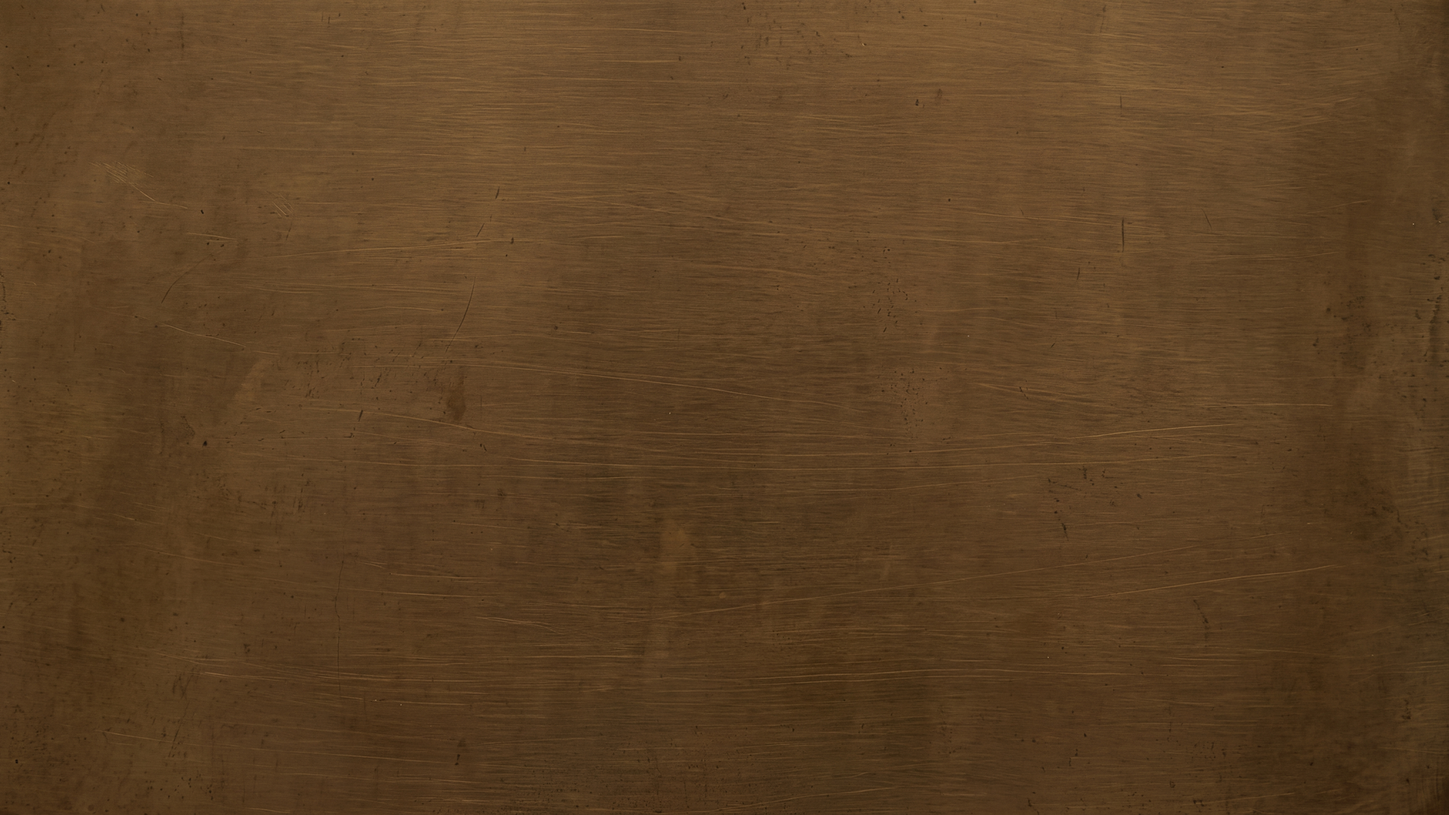
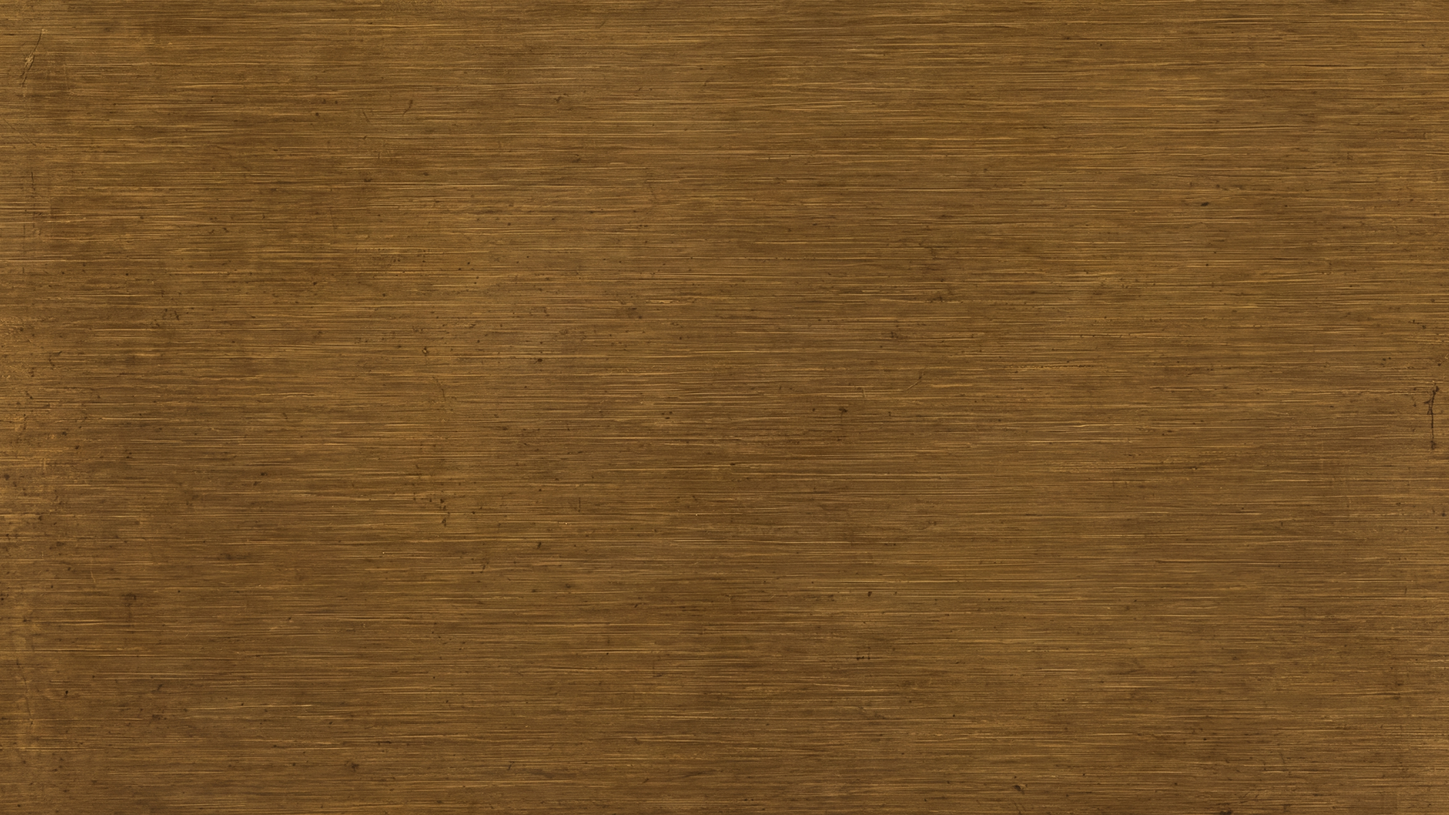
The brass is the 10:07b Gemini sheet, his pick off six live candidates
Architect 2026-10-22 ~10:15: "the one most realistic to what a music instrument would
look like … the other ones are darker, but not as realistic, maybe not as cheery" — the
brass drawn with Gemini from a brass tile (his second round, after the first's "too old
and dingy" output), shown live on the tablet through the tiles/ override folder on the
picked walnut. The master dropped in verbatim as Metal.jpg, its two covers rendered by
render_covers.py; Wood and Case re-rendered byte-identical. The provenance in
assets/tiles/README.md and CLAUDE.md.

diff --git a/CLAUDE.md b/CLAUDE.md
@@ -52,7 +52,7 @@ THE CODEX ROUTINE (all tmp/ paths gitignored): every round is a FRESH codex sess
 
 ## Standing Rules
 
-- THE CHROME IS THE FORTEPIANO (architect 2026-10-21, the design settled on mocks that day, the build the same evening; a Salzburg Walter: "we follow the Salzburg instrument as much as we can"; the frame of record tmp/theme_next/out/cover_walnut1.png, the ONLY authority for the look; the first wood chrome of 2026-10-20, 891b8e16..4d4478d4, rolled back whole at 1cb8aa07 for speed): THREE MATERIALS over Cool Edit's geometry, which does not move — WALNUT (the caption and menu row one slab with no gradient, the band's panes, the tab strip's ground, the dock bar, row 8, the border, the frame's own rows; the band's void the walnut under a .72 luma ratio, his one exception to "the wood as drawn"), an EVEN DARK BRASS (one panel from the column's air to the foot inside the frame columns: the lanes' grounds, the canvas's margins and ring, the tab bodies; no bright band — "right in the middle of my field of vision") and EBONY (every case and the three caption buttons; the light glyphs stand for the bone accidentals, no bone tile). THE MASTERS ARE A DROP FOLDER, `assets/tiles/`, one file per ROLE (`Wood`, `Metal`, `Case`, PNG over JPEG as the icons), 5504x3072 at his prompt (Metal and Case Gemini's, 2026-10-21; Wood ChatGPT's off the Walter photos, Gemini-upscaled, his pick 2026-10-22 — "the most realistic … I'm OK with red if it's realistic"), LGPL-3, and BESIDE EACH ITS PRE-RENDERED COVERS at the two standard windows, 2304x1440 and 1920x1080 (`tools/tiles/render_covers.py`, rerun after a drop; the APK carries the tablet's covers and no master). THE TUNING ROAD since 2026-10-22 ("tune live, not on mocks"): a `tiles/` folder BESIDE THE DEVICE CONFIG whose files WIN OVER THE BUNDLE'S BY NAME under the same rules, on both devices (the tablet's under `adb shell run-as com.warptempo.gui`; a bundled cover that reaches the window beats a master, so the tablet is retuned by dropping `<Name>-2304x1440.png`), nothing when absent, no key, no row (materials.cpp's tile_files). THE COVER RULE: zoom to fit the client window exactly and center, the overhang cropped, NEVER a repeat, mirror or seam; a window a shipped cover covers takes its center crop with no filtering. THE PERFORMANCE RULE IS THE GATE ("absolutely has to be"; the first build's EXTEND_REFLECT fills and per-install re-bakes are what not to repeat): ONE BAKE per window geometry — at launch, a settled resize, a gui_scale commit, True Colors — never at a palette install, a project open or a Settings OK; EVERY GROUND A 1:1 NEAREST BLIT from the bake, every line, bevel, ring and word a solid fill; the canvas interior the GPU's, untouched; measured on the laptop a full chrome paint within 0.2 ms of the flat chrome's. THE TONE RULE: each material's Face is its bake's mean, every tone a painter puts on it Cool Edit's HLS rule off that Face as a FLAT STROKE (no grain on a line), `bevel_light` / `bevel_dark` percent keys (100 the rule) with Settings rows while he tunes; the chrome's derived roles (pull-downs, cards, tooltip, modals, keyboard, dialogs) flat off the BRASS Face. THE INKS (his first glass round, 2026-10-21 18:40–21:10, judged on tablet mocks of his own captures): ONE INK E6D5A8 (v1 of five variations on a pale warm brass; the old brass C9A961 of the first landing "too golden", the gold D9B45A never taken) on EVERY WORD AND DIGIT ON THE CHROME — the caption's title, the tab labels, the ruler's digits and ticks, the clocks' digits on their black ground, row 8's state line, the caption buttons' enabled Marlett glyphs (disabled ones Cool Edit's glyph emboss) — over the 140C06 shadow at the `text_shadow` key's device px (2 at 300 %); THE FLAG LABELS ALONE NEAR-WHITE F0F0F0 ("only flags should be very high contrast"). THE SELECTION PAIR A CONSTANT: fill 9C7B3A (T3) under near-white text, everywhere the pair paints (the 2026-10-16 ink rule retired). THE PRESSED AND CHECKED CASE B1: the outer ring black top-left and the ebony highlight bottom-right, the inner ring the ebony shadow top-left and nothing bottom-right (Cool Edit's constant 808080 / F8F8F8 rings read as a raised white frame on ebony). THE FLAT FAMILY'S FACES ARE THE BRASS AS DRAWN — the cards, the tooltip, the modal box's margins and controls row, the keyboard band, the sizing frame — AND EVERY FIELD STAYS FLAT ("the user shouldn't be typing on a non-flat color"); THE WORD BUTTONS AND THE ON-SCREEN KEYBOARD'S KEYS ARE EBONY CASES since 2026-10-22 (his "buttons in ebony — yes" of 2026-10-21 ~23:40, the go 2026-10-22: the case's ramp, rims and B1 rings on any w x h box — paint_ce_case generalized, the band's square cases byte-identical — the pressed and the armed key the case's down face, the label or cap shifted one line; their patches baked with the cases at every geometry (word_and_key_case_rects; the tablet about 6 MB more resident, the laptop bakes no keys); the labels and caps in the one ink over its shadow, the access underline in the ink; the keyboard's soft edges, the push buttons' plain edges, the Hilight checker face and paint_button_box retired; "flat fine for now" until then). THE TOOLTIP AND THE CARDS CENTER THE CAP BAND AGAIN since 2026-10-22 (U1's line box centered then lifted one W, 2026-10-21 to 2026-10-22, measured on his capture 2 device px high at 300 %: one rule for every chrome label, redesign_baseline). THE RENDER PLAYER'S CASES ABUT since 2026-10-22 ("the buttons should be touching"; its 1-W glyph gap of 2026-10-02 retired, the 8-W group space kept). THE MENU ROW IS GONE ("File is already covered"): its lane, the three pull-downs and their access keys; the line under it stands directly under the caption, FULL WIDTH; Copy / Paste Phase Resets are THE PIGEON'S ACTS IN THE PHASE-RESET VIEW (Ctrl+J / Ctrl+Shift+J there; Jump to Defining Marker / Copy Value in the warp view — "pigeon works in all cases — copy/paste is send/receive, and same with jump"), Paste Phase Reset State REMOVED; Settings is ONE EDITOR with Tab completion over the keys, True Colors a device key (`true_colors`). THE PROGRAM FRAME'S COLUMNS AND BOTTOM ROW ARE GONE: every row below the caption 1 W wider on each side, the top line full width. ROW 8'S BARS MITRE every two-tone corner where they meet the dock bar's and the border's lines, like the band's frames. THE DISABLED GLYPH ON EBONY (his picks 2026-10-21 ~21:40 and ~23:05 off renders of the real painter): the silhouette the live case ramp's mean HLS lightness × 0.84 (2A1E1C on the shipped ebony; Cool Edit's own ratio 0.620, measured as 808080 over its Default case's 0.809, gave 1F1615 — too dark, the rim lost in it), the inset rim BLACK, the light copy Cool Edit's F8F8F8 one unit right and down unchanged; the caption buttons' dead Marlett face the same; the constant 808080 / 505050 of the flat chrome read as a light grey blob on ebony. WINDOWS 2000 ACCURACY IS DEMOTED (his word): the measured metrics stay the skeleton of the dialogs, cards and word buttons, every departure a usability ruling at its site, no parity owed. ROW 8'S GRIPPERS ARE 6-W BARS since 2026-10-21 evening (his rounds 15-28 on the mocks: the end bar's own light / face / mid / dark columns, from the dock bar's mid row through the border's light row so the vertical bars MERGE into the horizontal lines; a bar against the frame column before the clock group, after it, before the verb group, after each group, and after Play against the frame column — the 5-W bare close of 2026-10-14 retired; the pads 5 W after a bar, 4 W before one; the border's lines running full through the void; `program_spec.h`'s row8_bar_* fields, `paint_ce_row8_bar`, paint_handler.cpp's row8_block). `src/gui/materials.h` is the one owner (the regions, the cover and bake rules, the keys, the inks), `assets/tiles/README.md` the drop road's record; the mocks' record tmp/theme_next/NOTES.md. THE CAPTION IS FLAT EBONY IN THE WINDOWS STYLE since 2026-10-22 (architect ~00:10–01:20 on the cap4 mocks, tmp/theme_next/make_cap4.py, a3 the pick: "make the caption and window frame follow the windows rule, ie no more texture on either, marlett buttons follow win rules, set a reasonable inactive color, leave the ink as it is"): the active caption ONE FLAT 1C1412 (the ebony's hue and saturation at HLS L .09; cap3_e's 291D1B "a bit light", the gemini_in/ebony photos' key tones the measure), no texture, no top light line, NO LINE UNDER IT — the program frame's last row, Cool Edit's frame row of 2026-10-10, REMOVED with its lane, the band's top directly under the caption and the well one W taller; the INACTIVE caption 2E2A28 under the ink dulled to 9E9480 (the planner's "reasonable" pick, tunable); the title's ink E6D5A8 over its shadow UNCHANGED; the caption leaves the WOOD region and the bake; A GRADIENT NOT TAKEN (the lighter ends "too light", the darker-left set judged and the flat picked); THE THREE MARLETT BUTTONS AND THE LAPTOP'S SIZING FRAME WINDOWS 2000'S OWN — ButtonFace D4D0C8, Hilight FFFFFF, Shadow 808080, DkShadow 404040 as constants, the soft raised cell, the black glyph, the dead glyph Windows' DSS_DISABLED emboss, the frame flat with its raised edge — no ebony, no brass, no bake for them (the Windows parts of the window wear Windows' colors, the planner's call recorded at the site). The caption record below reads as history where it names a painted caption, the walnut caption or the ebony caption buttons.
+- THE CHROME IS THE FORTEPIANO (architect 2026-10-21, the design settled on mocks that day, the build the same evening; a Salzburg Walter: "we follow the Salzburg instrument as much as we can"; the frame of record tmp/theme_next/out/cover_walnut1.png, the ONLY authority for the look; the first wood chrome of 2026-10-20, 891b8e16..4d4478d4, rolled back whole at 1cb8aa07 for speed): THREE MATERIALS over Cool Edit's geometry, which does not move — WALNUT (the caption and menu row one slab with no gradient, the band's panes, the tab strip's ground, the dock bar, row 8, the border, the frame's own rows; the band's void the walnut under a .72 luma ratio, his one exception to "the wood as drawn"), an EVEN DARK BRASS (one panel from the column's air to the foot inside the frame columns: the lanes' grounds, the canvas's margins and ring, the tab bodies; no bright band — "right in the middle of my field of vision") and EBONY (every case and the three caption buttons; the light glyphs stand for the bone accidentals, no bone tile). THE MASTERS ARE A DROP FOLDER, `assets/tiles/`, one file per ROLE (`Wood`, `Metal`, `Case`, PNG over JPEG as the icons), 5504x3072 at his prompt (Case Gemini's, 2026-10-21; Metal Gemini's off a brass tile, his pick 2026-10-22 off six live candidates — "the most realistic to what a music instrument would look like"; Wood ChatGPT's off the Walter photos, Gemini-upscaled, his pick 2026-10-22 — "the most realistic … I'm OK with red if it's realistic"), LGPL-3, and BESIDE EACH ITS PRE-RENDERED COVERS at the two standard windows, 2304x1440 and 1920x1080 (`tools/tiles/render_covers.py`, rerun after a drop; the APK carries the tablet's covers and no master). THE TUNING ROAD since 2026-10-22 ("tune live, not on mocks"): a `tiles/` folder BESIDE THE DEVICE CONFIG whose files WIN OVER THE BUNDLE'S BY NAME under the same rules, on both devices (the tablet's under `adb shell run-as com.warptempo.gui`; a bundled cover that reaches the window beats a master, so the tablet is retuned by dropping `<Name>-2304x1440.png`), nothing when absent, no key, no row (materials.cpp's tile_files). THE COVER RULE: zoom to fit the client window exactly and center, the overhang cropped, NEVER a repeat, mirror or seam; a window a shipped cover covers takes its center crop with no filtering. THE PERFORMANCE RULE IS THE GATE ("absolutely has to be"; the first build's EXTEND_REFLECT fills and per-install re-bakes are what not to repeat): ONE BAKE per window geometry — at launch, a settled resize, a gui_scale commit, True Colors — never at a palette install, a project open or a Settings OK; EVERY GROUND A 1:1 NEAREST BLIT from the bake, every line, bevel, ring and word a solid fill; the canvas interior the GPU's, untouched; measured on the laptop a full chrome paint within 0.2 ms of the flat chrome's. THE TONE RULE: each material's Face is its bake's mean, every tone a painter puts on it Cool Edit's HLS rule off that Face as a FLAT STROKE (no grain on a line), `bevel_light` / `bevel_dark` percent keys (100 the rule) with Settings rows while he tunes; the chrome's derived roles (pull-downs, cards, tooltip, modals, keyboard, dialogs) flat off the BRASS Face. THE INKS (his first glass round, 2026-10-21 18:40–21:10, judged on tablet mocks of his own captures): ONE INK E6D5A8 (v1 of five variations on a pale warm brass; the old brass C9A961 of the first landing "too golden", the gold D9B45A never taken) on EVERY WORD AND DIGIT ON THE CHROME — the caption's title, the tab labels, the ruler's digits and ticks, the clocks' digits on their black ground, row 8's state line, the caption buttons' enabled Marlett glyphs (disabled ones Cool Edit's glyph emboss) — over the 140C06 shadow at the `text_shadow` key's device px (2 at 300 %); THE FLAG LABELS ALONE NEAR-WHITE F0F0F0 ("only flags should be very high contrast"). THE SELECTION PAIR A CONSTANT: fill 9C7B3A (T3) under near-white text, everywhere the pair paints (the 2026-10-16 ink rule retired). THE PRESSED AND CHECKED CASE B1: the outer ring black top-left and the ebony highlight bottom-right, the inner ring the ebony shadow top-left and nothing bottom-right (Cool Edit's constant 808080 / F8F8F8 rings read as a raised white frame on ebony). THE FLAT FAMILY'S FACES ARE THE BRASS AS DRAWN — the cards, the tooltip, the modal box's margins and controls row, the keyboard band, the sizing frame — AND EVERY FIELD STAYS FLAT ("the user shouldn't be typing on a non-flat color"); THE WORD BUTTONS AND THE ON-SCREEN KEYBOARD'S KEYS ARE EBONY CASES since 2026-10-22 (his "buttons in ebony — yes" of 2026-10-21 ~23:40, the go 2026-10-22: the case's ramp, rims and B1 rings on any w x h box — paint_ce_case generalized, the band's square cases byte-identical — the pressed and the armed key the case's down face, the label or cap shifted one line; their patches baked with the cases at every geometry (word_and_key_case_rects; the tablet about 6 MB more resident, the laptop bakes no keys); the labels and caps in the one ink over its shadow, the access underline in the ink; the keyboard's soft edges, the push buttons' plain edges, the Hilight checker face and paint_button_box retired; "flat fine for now" until then). THE TOOLTIP AND THE CARDS CENTER THE CAP BAND AGAIN since 2026-10-22 (U1's line box centered then lifted one W, 2026-10-21 to 2026-10-22, measured on his capture 2 device px high at 300 %: one rule for every chrome label, redesign_baseline). THE RENDER PLAYER'S CASES ABUT since 2026-10-22 ("the buttons should be touching"; its 1-W glyph gap of 2026-10-02 retired, the 8-W group space kept). THE MENU ROW IS GONE ("File is already covered"): its lane, the three pull-downs and their access keys; the line under it stands directly under the caption, FULL WIDTH; Copy / Paste Phase Resets are THE PIGEON'S ACTS IN THE PHASE-RESET VIEW (Ctrl+J / Ctrl+Shift+J there; Jump to Defining Marker / Copy Value in the warp view — "pigeon works in all cases — copy/paste is send/receive, and same with jump"), Paste Phase Reset State REMOVED; Settings is ONE EDITOR with Tab completion over the keys, True Colors a device key (`true_colors`). THE PROGRAM FRAME'S COLUMNS AND BOTTOM ROW ARE GONE: every row below the caption 1 W wider on each side, the top line full width. ROW 8'S BARS MITRE every two-tone corner where they meet the dock bar's and the border's lines, like the band's frames. THE DISABLED GLYPH ON EBONY (his picks 2026-10-21 ~21:40 and ~23:05 off renders of the real painter): the silhouette the live case ramp's mean HLS lightness × 0.84 (2A1E1C on the shipped ebony; Cool Edit's own ratio 0.620, measured as 808080 over its Default case's 0.809, gave 1F1615 — too dark, the rim lost in it), the inset rim BLACK, the light copy Cool Edit's F8F8F8 one unit right and down unchanged; the caption buttons' dead Marlett face the same; the constant 808080 / 505050 of the flat chrome read as a light grey blob on ebony. WINDOWS 2000 ACCURACY IS DEMOTED (his word): the measured metrics stay the skeleton of the dialogs, cards and word buttons, every departure a usability ruling at its site, no parity owed. ROW 8'S GRIPPERS ARE 6-W BARS since 2026-10-21 evening (his rounds 15-28 on the mocks: the end bar's own light / face / mid / dark columns, from the dock bar's mid row through the border's light row so the vertical bars MERGE into the horizontal lines; a bar against the frame column before the clock group, after it, before the verb group, after each group, and after Play against the frame column — the 5-W bare close of 2026-10-14 retired; the pads 5 W after a bar, 4 W before one; the border's lines running full through the void; `program_spec.h`'s row8_bar_* fields, `paint_ce_row8_bar`, paint_handler.cpp's row8_block). `src/gui/materials.h` is the one owner (the regions, the cover and bake rules, the keys, the inks), `assets/tiles/README.md` the drop road's record; the mocks' record tmp/theme_next/NOTES.md. THE CAPTION IS FLAT EBONY IN THE WINDOWS STYLE since 2026-10-22 (architect ~00:10–01:20 on the cap4 mocks, tmp/theme_next/make_cap4.py, a3 the pick: "make the caption and window frame follow the windows rule, ie no more texture on either, marlett buttons follow win rules, set a reasonable inactive color, leave the ink as it is"): the active caption ONE FLAT 1C1412 (the ebony's hue and saturation at HLS L .09; cap3_e's 291D1B "a bit light", the gemini_in/ebony photos' key tones the measure), no texture, no top light line, NO LINE UNDER IT — the program frame's last row, Cool Edit's frame row of 2026-10-10, REMOVED with its lane, the band's top directly under the caption and the well one W taller; the INACTIVE caption 2E2A28 under the ink dulled to 9E9480 (the planner's "reasonable" pick, tunable); the title's ink E6D5A8 over its shadow UNCHANGED; the caption leaves the WOOD region and the bake; A GRADIENT NOT TAKEN (the lighter ends "too light", the darker-left set judged and the flat picked); THE THREE MARLETT BUTTONS AND THE LAPTOP'S SIZING FRAME WINDOWS 2000'S OWN — ButtonFace D4D0C8, Hilight FFFFFF, Shadow 808080, DkShadow 404040 as constants, the soft raised cell, the black glyph, the dead glyph Windows' DSS_DISABLED emboss, the frame flat with its raised edge — no ebony, no brass, no bake for them (the Windows parts of the window wear Windows' colors, the planner's call recorded at the site). The caption record below reads as history where it names a painted caption, the walnut caption or the ebony caption buttons.
 - THE PROGRAM IS COOL EDIT (architect 2026-10-09 ~06:55, "chrome means chrome, the program is Cool Edit"; the design loop settled ~09:40 on mock sets 1–3; brief 52 the first lanes): CHROME = the OS part — caption, menu row, frame, pull-downs, cards, prompts, the picker and Settings dialogs with their fields and buttons — each chrome's own; THE PROGRAM = COOL EDIT PRO 2.1's EDIT VIEW FROM THE TOOLBAR DOWN, THE SAME UNDER EVERY CHROME, measured 1:1 from his Wine captures (tmp/research/cool_edit/METRICS.md, the captures the law; Cool Edit runs under Wine on the laptop since 2026-10-09): the toolbar band (33 W — Cool Edit's own, its 23-W case round Cool Edit's own 20-W GLYPH SEAT since brief 53, architect 2026-10-09 ~10:25 "I'd like to see it at 20": NO proportional fit, every program length Cool Edit's W unscaled; the 24-W seat stays the chrome vocabularies' rule, never the program's; the size on the glass is gui_scale's — 360 draws the glyph at the 72 device px the 24-W seat drew at 300) of gradient cases in grooved PANES with the 4E5662-tone recess between, NO HOVER FACE (Cool Edit's toolbar has none; pressed/checked the black-808080-F8F8F8 rings with the glyph at +1; A DISABLED GLYPH COOL EDIT'S OWN EMBOSS since 2026-10-15 — its silhouette in 808080 over a F8F8F8 copy ONE ICON UNIT right and down (seat_px/48, the glyph's own line thickness, universal; the drawing itself translated before rasterising, exact AA, never a shifted raster — architect 2026-10-15), PLUS THE PRODUCT'S OWN INSET RIM since that evening: the silhouette's one-unit band the light copy does not reach, inside its top-left edges, in 505050 (`kCeDisabledInset`; "the pressed case goes down and to the right, so the shadow line does too"; a dark copy peeking out up-left grew the glyph and stays ruled out; his pick off a 70 → 00 series on the glass), Windows' DSS_DISABLED built from the live raster's mask, the two tones measured off Cool Edit's own disabled bitmaps (BITMAP 221), `kCeDisabledShadow` / `kCeDisabledLight`; ReactOS's saturate retired that day — on Adwaita's grey arrows it was invisible), the dock bar (6 W), row 8 (32 W: the dark time field 17 W tall at the left in a grippered group, the state line in the panel-label pair with Cool Edit's (+1,+1) shadow, the button groups packed against the right edge between grippers and end bars, each group's air Cool Edit's measured 6 W after the gripper and 4 W before the end bar since 2026-10-12; ROW 8'S LAST GROUP HAS NO END BAR since brief 162 — 5 W of face from its last case to the frame line, Cool Edit's own close on his 1:1 capture tmp/Screenshot_2026-10-14_11-20-10.png, the clock group keeping its end bar) and UNDER ROW 8 COOL EDIT'S BORDER (brief 162, architect 2026-10-14: the dock bar's own six rows on a bottom lane of their own, inside the frame's columns, the program frame's bottom row still the window's lowest line; its 6 W out of the waveform) — `src/gui/program_spec.h` the one owner of the program's lengths, `cool_edit_paint.{h,cpp}` the painters, `cool_edit_derive.h` the tones: THE PALETTE HAS TWELVE ROLES since part 3 (~15:00; TEN when the cues went red and blue ~12:00 — the colour cell), among them `face` (Cool Edit's "Dockable Window 3D Color", default 626C7B under every chrome; his palette files need the line), every panel tone derived from it by Cool Edit's rule — HLS with hue and saturation kept, L' = a·L + b, fitted over five captured presets and proven ±1 RGB by static_assert — THE CASE FOLLOWS FACE since 2026-10-10 (its ramp rows, highlight, shadow ends and corner by Cool Edit's measured per-row HLS fit over thirteen captured Faces, Default within 2 of the old bytes; the black outline and the pressed / checked rings constant), the field's digits Cool Edit's never-swapping light text off the Face (`ce_field_text`), the panel label Cool Edit's with its ENGRAVED SWAP past Face HLS L .70 (the dark ink over a hilight shadow, `ce_label_shadow`); the ruler's E0E0E0 Cool Edit's own, face-independent; ChromeSpec carries no toolbar, row-8 or disabled-glyph field since brief 52. THE TAB STRIP (architect 2026-10-18 ~16:00–17:45, mocked v11 on the laptop by the graphics planner, the go ~18:30; the law in order: his 1:1 Wine capture tmp/Screenshot_2026-10-18_16-07-45.png with his two yellow strokes at the active tab's feet, the mitre rule, the mocks tmp/tabs_mock/ and their generator make11.py): BETWEEN THE BAND AND THE COLUMN'S AIR A 21-W LANE — 20 W of the dock recess carrying COOL EDIT PRO 2.1's ORGANIZER TAB STRIP (Files / Effects / Favorites) taken whole as "Tab A" and "Tab B", then the page's 1-W light line; the LIT tab the active one, 18 W tall from lane row 2, the Face running through the page line, a light left column and top row, the mid right column and Cool Edit's one SQUARE drop shadow (the page-dark tone, starting one W under the top), its two feet on the page line ONE RING'S TWO BOTTOM CORNERS, each the ordinary mitre (architect 2026-10-18 ~19:55, 61970472: Cool Edit draws no connecting pixel at the right foot — "but just imagine that there is one and draw a mitred corner there … just as the bottom left has, but in mirrored form"; v11's two down-right feet and the landing's face-under-the-column reading retired); the INACTIVE tab 16 W from row 4, tab_light / tab_dark edges, the tab_line run under the inactive footprints alone, its 15-ROW BODY GRADIENT AND LABEL INK A PER-PRESET MEASURED TABLE (`kTabBodies`, cool_edit_derive.h: 18 Faces off his 21 Wine captures of 18:04–18:05, tmp/tabs_fit/RESULTS.md — no hue-keeping model fit, the case ramp's model off 28–40, so the capture's own bytes; Classic Cool and Easy on the Eyes Default's row; a static_assert walks every built-in preset's Face into the table, so the lookup has no error arm); the labels the body face with the cap band centered by redesign_baseline in the 15 / 17-W bodies, THE PADS 6 W EACH SIDE OF THE LABEL'S CELL — its advance, the chokepoint's measure — the cell centered in the footprint (architect 2026-10-18 ~20:20, "agree on both": Cool Edit's Organizer is a Windows tab control padding the text cell 6 and its 6 / 5 on the ink is MS Sans Serif's trailing blank column, a width never copied; the lit tab's frame grows 1 W outward each side round the FIXED label, so its left pad reads one W more than its right — the raised frame's two-column right edge, Windows' own construction, kept; the 6 / 5 and 7 / 5 ink pads of d92059ea retired); the gap between tabs 2 W THROUGH scaled_px like every length (architect: "138 % isn't really a dimension that I use … we just follow the scaling; hit areas are defined by what's painted"; the lead, the growth and the run's reach 1 W each, their own rounded parts — the two-lines rule of d92059ea retired by 61970472); THE PRESS the row's old vocabulary resurrected from 69de5a21^ — the tabs the row's only targets, `RedesignButton::TabA` / `TabB` radio rows on Ctrl+Tab, Shift or the glass long press Ctrl+Shift+Tab (the march), the lit tab swallowing, live in every view, GREYED under the player and picker (the label embossed, body unchanged), dead ungreyed behind a prompt or dialog editor; the strip's ground CHROME, inert to every gesture and the wheel; the tooltip the roster's own form; `program_spec.h`'s tab fields, `paint_ce_tab_strip` / `ce_tab_strip_layout` (cool_edit_paint.cpp), `tab_strip_h_px`, main.cpp's lane 4 (the flex gap at lane 5); the 2026-10-01 tab-row deletion REVERSED in closed_questions.md. PART 2 BUILT (2026-10-09, the go ~11:10; the mock of record set 3's grid-4 mock): under the band 5 W of the panel's face, THE VIEW BAR 8 W = Cool Edit's view bar (a 1-W sunken frame of the Face-derived mid and light tones round a black 6-W field; the trim window a raised 1-W bevel block of the waveform ink, its bevels the ink at HLS lightness 0.94 / 0.3157 by Cool Edit's rule, proven ±1 on its five presets; the resting playhead a yellow-and-black dotted column over the span; no caps, no notch, the grabs the span's two 8-W end zones; the trim region inside the span not drawn, our window IS the span; its two side frame columns deferred to part 3 with the canvas frame); THE RULER 12 W SINCE BRIEF 64 (2026-10-09 ~21:00, his item 1 of the session close — the digits were "very small" and "should basically be touching the trim bar — one Windows pixel of empty space above"; 18 W from part 2 until then): 11 ground rows under the view bar's shared light line, its own light line below — row 0 AIR, THE TIMESTAMPS IN THE SIX-ROW SMALL DIGIT (GuiFace::Small, every set's) on rows 1–6 in E0E0E0 over a black (+1,+1) shadow, the baseline the top of row 7, E0E0E0 ticks STANDING ON ITS BOTTOM ROW toward the flags, major rows 7–10 painted over the shadow's last row, minor rows 9–10; a label crossing the ends dropped; the placement lane kept; a divergence from Cool Edit's 17-row ruler, his usability call); THE PLAYHEAD'S HEAD IN THE RULER (the 9-7-5-3-1 triangle in the palette's `playhead_stem`, FFFF00, with its 31363D shadow, on the ruler's last five rows (6–10 since brief 64, reaching the digits' last row and covering what stands under it), FREE TO STAND ON A MARKER — no snap, no avoidance; its canvas dots one every 4 rows at rows ≡ 1 mod 4, nothing across the marker lane; the damage box the head's painted width); THE MARKER LANE 17 W OF COOL EDIT'S CUES SINCE BRIEF 64 (the six rows the ruler gave up, "the text box should take up the whole marker lane … right now it's too small to click"; 11 W, Cool Edit's own, from part 2 until then; the triangle's size unchanged — mock set 4's heights 5/6/7/8 judged 2026-10-09 ~21:00, "the triangle height is okay right now") (the triangle on rows 12–16 with its shadow, the one label six quanta right at cap 7 in the Face-derived light tone, ITS CAP BAND CENTERED IN THE LANE since brief 65 (his word on the 17-W lane's first APK, "the font is vertically too far up, it should be centered": `cue_baseline_px()` by redesign_baseline's rule from the lane's height and the cap — rows 5–11 at 100 %, the baseline the top of row 12, a constant would drift across scales; the editor's text on the same baseline), the stem 1-W dots on the canvas alone, the bound cells and a history pair's halves further segments a four-quantum gap apart; THE OVERLAP RULE ours, LATER ALWAYS WINS (architect 2026-10-10 ~19:00, "a long flag before a short one should continue after the short one ends"): labels paint LEFT TO RIGHT, each on an opaque face box from its own triangle's left edge to its end, so a later label masks earlier text only across its own extent and no label is clipped; the published label rect the painted box, the hit walk right-on-top; triangles painted last left to right; THE SELECTED SEGMENT'S TEXT the chrome's text (white on the default Face, Cool Edit's dark swap on a light one) ON THE FACE WITH NO BOX since brief 69 (architect 2026-10-09 ~23:50, "clicking on a flag to select it makes the text turn white. That's it"; the selection-fill box over the whole lane lived one evening, brief 64, and the rows-0–8 box before it), the resting face box, the editor's field and THE PRESS TARGET the lane's full height, the triangle unchanged; the press target the label box plus the triangle, triangles first and the right one on top); the stack 187 W under windows-2000 since the tab strip of 2026-10-18 (166 from brief 162, 160 from brief 77), the tablet's well 879 rows at 300 % (942 until the strip, 960 until the border under row 8; unchanged by brief 64, the ruler's six rows moved to the lane, and by brief 77, the menu row's etched pair traded for the program frame's top and bottom rows) — `program_spec.h` the lanes' constants, their ChromeSpec fields gone; PART 3 BUILT (2026-10-09 ~15:00): THE CANVAS COLUMN accurate to the mock — the view bar, the ruler and the canvas 6 W of the panel's face in from each side sharing two frame columns (the canvas one ring, dark top and left, light right and bottom, every two-tone corner mitred), the marker lane and the air spanning the window, a top lane for the canvas's dark frame row and a bottom lane for the column's foot (the light row and 5 W of face over the dock bar), `waveform_area` the canvas interior (its x half the leftover of flooring the width to the 16-px painter grid step, odd to the right); COOL EDIT'S GRID under the waveform — per channel the horizontal lines at the zero row ± nearbyint(k·H/4), k = 1..3 (`grid`, GrdL 003500; THE VERTICALS ON THE MAJOR TICKS DROPPED 2026-10-09 ~18:40, "solid versus the markers dotted, they compete" — HIS PRIORITY RULE: "accuracy is what applies to the conversion from Cool Edit Pro, and accuracy is lower priority than usability"; "truthfulness applies to the way we interact", an invisible hit box being untruthful) — and a CENTER LINE per channel at its zero row (`center`, Cntr A90404), the waveform over the grid and THE CENTER LINE OVER THE WAVEFORM since brief 69 (architect 2026-10-09 evening: "it's supposed to be visible over the waveform — in a project with tape hiss there's never enough zero that the red line would become visible"; a live pass after the plate, render_center_lines), NO boundary lines (Cool Edit's white Bndy lines at full scale, omitted); BETWEEN THE CHANNELS COOL EDIT'S STEREO DIVIDER since 2026-10-16 (architect, on his 1:1 Wine capture tmp/Screenshot_2026-10-16_15-50-05.png rows 521–523: "make sure it has no separation from the main chrome"): TWO SUNKEN WELLS, one ring per channel, and between them the upper well's light line, ONE ROW OF THE FACE, the lower well's dark line, each 1 W SCALED (rows 811–819 at 300 %), running through the frame columns into the face margins; the bands each (area − divider) / 2 floored, the spare row the canvas's last; `waveform_divider` the one owner, drawn through the canvas sink; THE DIVIDER IS CHROME, INERT TO EVERY SURFACE (architect 2026-10-16, "chrome is not waveform, for any surface": a press, pen touch or finger starting on it does nothing — no placement, scrub, pan, sweep, strip drag or pinch — as the frame columns; EVERY GESTURE BEGUN ON THE WAVEFORM — mouse, pen or finger, pan or pinch — RUNS ON OVER ANY CHROME UNTIL THE LIFT (architect 2026-10-16: its surface is decided at its start)), the upper well placing and the lower scrubbing on a motionless release; the press seam's 1-px line of 2026-10-10 (grid color, then center color for one afternoon) retired with it, and "nothing between the channels" (2026-10-09) with it; THE RULE, his words 2026-10-09 ~14:25: "ON WAVEFORM → UNSCALED. OTHERWISE, SCALED." — every line and dot on the canvas is ONE DEVICE PX (`waveform_line_px`: the cue, range and playhead dots one px every 4 device rows with Cool Edit's phases in device rows, the scanner, the anchor stem, the lead-in ring, the lit outline, the grid and center lines), everything off the canvas the scaled quantum (the triangles, the ticks, the lanes); THE VIEW BAR SHOWS NO PLAYHEAD ("no dots on the trim bar"); "AT EVERY SCALE, THE MARKER TRIANGLE MUST BE FULLY CENTERED ON THE STEM" (~14:35): the cue's and the playhead's triangle apex at the one-px stem's center, the base 9u about it, antialiased (the diagonal rule reaching every two-tone corner and staircase of the program since ~12:40, cool_edit_paint.h's head); the tablet's canvas 942 rows at 300 % since brief 162, 2256 px wide from x 24 (the frame's two columns came out of the grid floor's leftover); THE TWO CHANNELS FILL THEIR WELLS top to bottom, each (area − divider) / 2 floored, the spare row the canvas's foot, no inset (architect 2026-10-09 ~15:15, "remove"; the wells 2026-10-16; `waveform_channel_band`), the grid's quarters on the full half height and the leveler's headroom the only thing keeping the peaks off the edges; no status bar, no level meter. COOL EDIT'S FRAME (brief 77, architect 2026-10-10 ~08:10 on the ring mocks; his captures tmp/cool edit separator/ — a Windows 95/98 hardware GIF and Wine without its theme): the plain menu bar has NO LINE UNDER IT (the etched pair of 2026-10-10 morning was WordPad's REBAR border, the wrong family — "it's not a window separator … part of the Cool Edit chrome"); ONE SUNKEN LINE in the CHROME'S Shadow and Hilight (BDR_SUNKENOUTER, mitred) runs round the whole program area, under the menu row to the window's foot, every program lane inset one line each side (`program_frame_rect`, render.h); THE MODALS ARE ONE BOX (briefs 163–164, architect 2026-10-14 on the modal mocks tmp/modal_arc/: "overlays/modals can take over the area from the trim bar on down, with just the bottom new border remaining"; the taskbar dialogs of brief 80 RETIRED, "we should stop doing that"): every modal — the render player, the project picker, a prompt, a dialog editor (Settings, the BPM bracket) — stands from the view bar's top row down in ONE SUNKEN BOX wearing the canvas column's ring at its side margin, mitred; ITS GROUND SAYS WHAT THE SURFACE IS — the field ground where you type or pick (the lists, the editor), the face where you only read (a prompt's question) — its text from the box's first row at x45 at 300 %; under it the 5-W foot, then a CONTROLS ROW of row 8's content height with no grippers, end bars or dock bar, its outermost cases and buttons flush with the ring's outer edges (word buttons flush right), then the border under row 8 and the frame line, both always visible. A DIALOG EDITOR'S BOX IS THE EDIT CONTROL: the whole `key=value` line, soft-wrapped at the box's width ("long lines can wrap"), nothing scrolling, no "Setting:" label. ON THE GLASS THE KEYBOARD STANDS INSIDE THE FRAME: the box shortens, then foot, controls row and border, then the keyboard band with its pad on all four sides (14 px at 300 %) inside the frame's columns, no line of its own, the frame's bottom row still lowest (300 %: the box 231–904, the controls row 920–1015, the border 1016–1033, the keyboard 1034–1436). The render player's folder-name header is removed. `src/gui/modal_box.h` the owner, `onscreen_keyboard.h` the keyboard's placement. Windows 2000 first; XP later as a caption and menu row on the same program. The other chromes get NO PARITY WORK during the arc (his waiver) and are not dropped. THE OWN-ICONS ARC IS CLOSED (architect 2026-10-14: the traced Cool Edit set and docs/research/ removed; the icon work continues as small modifications to a GNOME set, its own note in tmp/).
 - FREEZE: `src/engine/`, `src/parser/`, `src/audio_io/` and `src/prepost/` are under permanent hard freeze, and `src/cli/cli_main.cpp` is freeze-adjacent. Changes there are surgical and each needs explicit architect approval, recorded at the site and in the commit ("(architect approval YYYY-MM-DD)"); comment-only residue in frozen files is pre-approved (architect 2026-09-28) and still named in the commit. A retired perf candidate needs new measured data (`docs/engineering/perf_campaign_2026_07.md`).
 - COMMENTS describe current behavior and rationale only, at the symbol that owns the rule, with the ruling's date; no dead-process citations, no review-round or decision numbers. History belongs in git. Before claiming "every site that does X", grep it; an exhaustive enumeration lives at exactly one authoritative site per concept.

diff --git a/assets/tiles/README.md b/assets/tiles/README.md
@@ -45,10 +45,11 @@ absent.
 
 ## Provenance and licence
 
-Every master in this folder is drawn at the architect's prompt for this project — `Metal` and `Case` with Google's
-Gemini, 2026-10-21; `Wood` with OpenAI's ChatGPT from the Walter photos and upscaled to 5504 x 3072 by Gemini,
+Every master in this folder is drawn at the architect's prompt for this project — `Case` with Google's Gemini,
+2026-10-21; `Metal` with Gemini from a brass tile, 2026-10-22 (his pick off six live candidates, "the one most realistic to
+what a music instrument would look like"; the darker even sheet of 2026-10-21 until then); `Wood` with OpenAI's ChatGPT from the Walter photos and upscaled to 5504 x 3072 by Gemini,
 2026-10-22 (architect: "the most realistic … I'm OK with red if it's realistic"; the first Gemini walnut, 2026-10-21,
 read as a stylized, hot red) — and licensed under the GNU LGPL v3, the icon set's own licence (`assets/icons/README.md`, "Licence": each file a separate
 data file read at run time, never linked or compiled into the program's code); the covers are renders of them under
-the same licence. A JPEG or PNG carries no notice, so this README is their record. The settled three: `Wood` the ChatGPT walnut of 2026-10-22, `Metal` the darker step of the first even-sheet brass pair, `Case` the ebony run. The generation
+the same licence. A JPEG or PNG carries no notice, so this README is their record. The settled three: `Wood` the ChatGPT walnut of 2026-10-22, `Metal` the brass of 2026-10-22, `Case` the ebony run. The generation
 records (the prompts, the sheets, every candidate) are the planner's `tmp/theme_next/gemini_out/`, not shipped.
